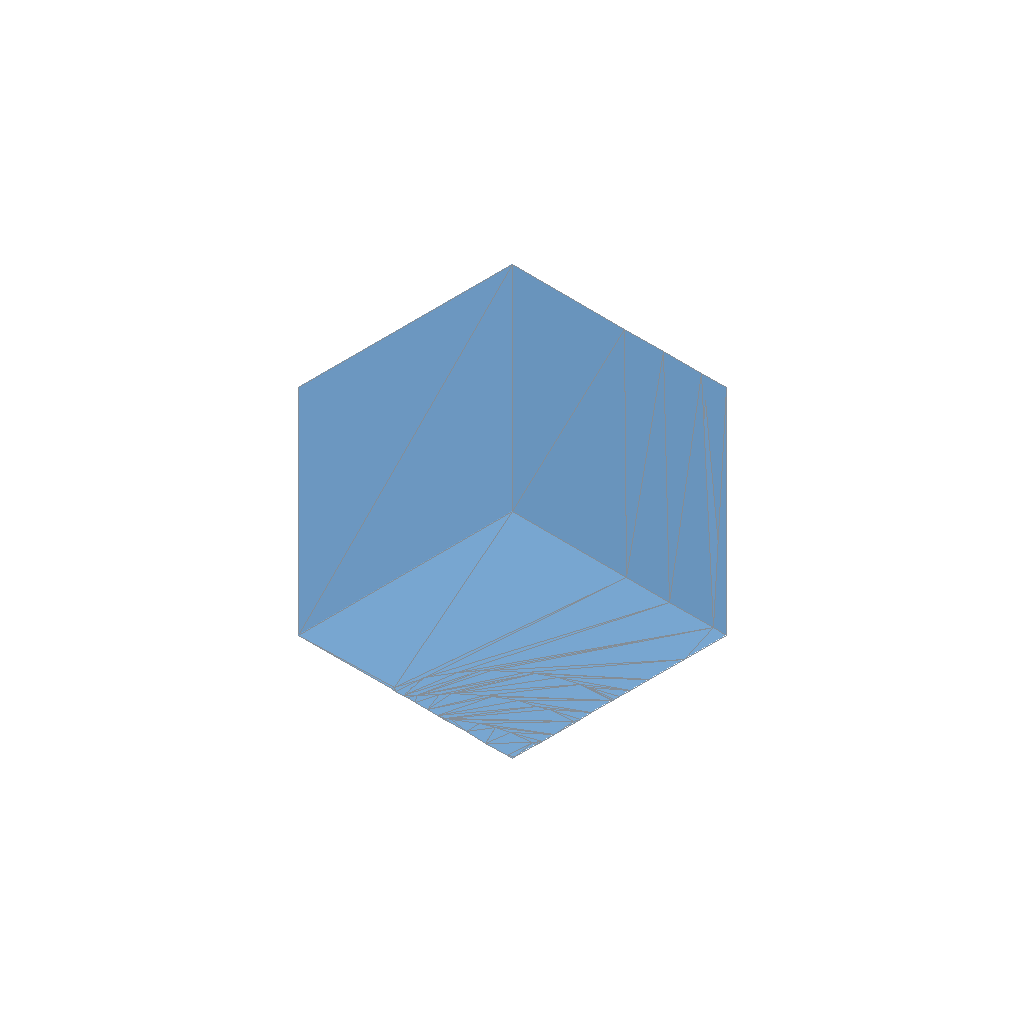
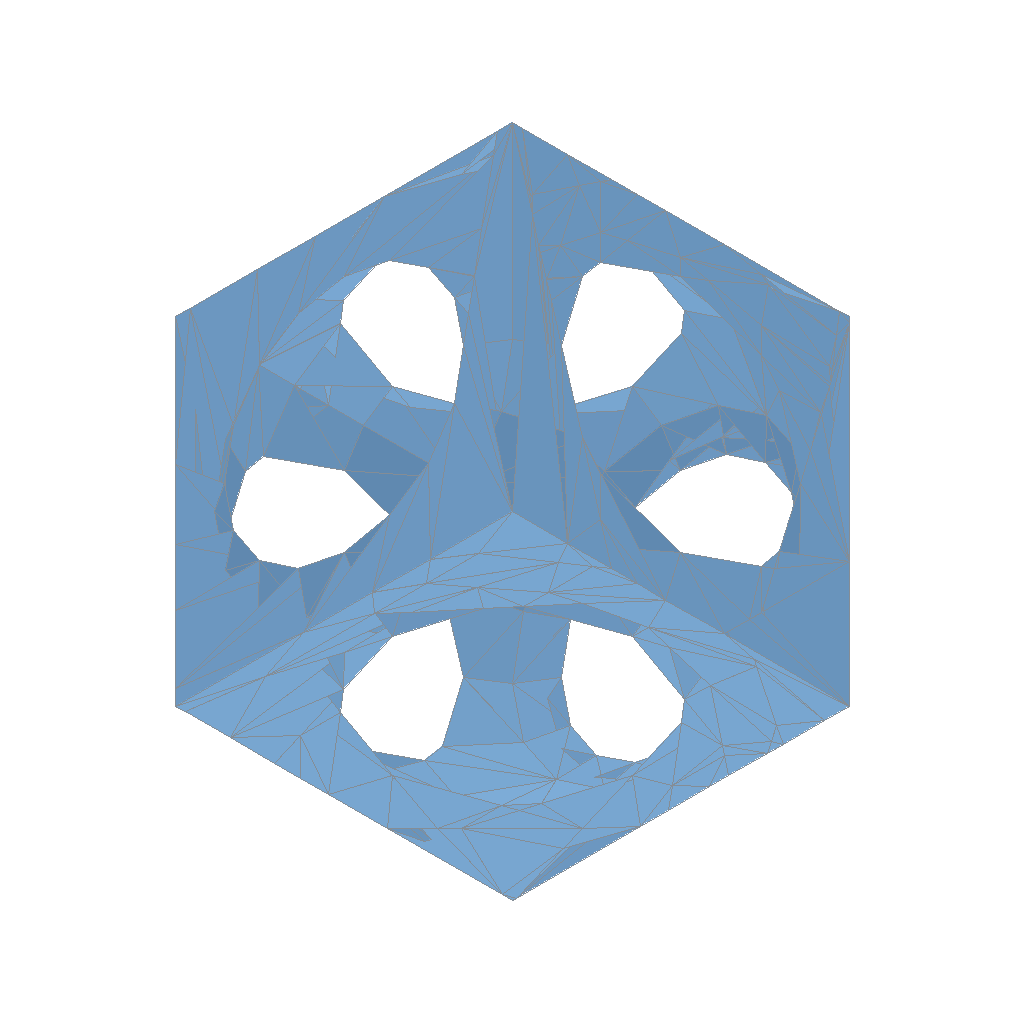
update renders

Changed region(s): [[0.1562, 0.125, 0.8438, 0.875], [0.4062, 0.4375, 0.4375, 0.4688]]

diff --git a/examples/readme_renders.rs b/examples/readme_renders.rs
@@ -250,16 +250,8 @@ fn render_readme_meshes() {
         ]),
     );
 
-    let cube = Mesh::<()>::cube(2.0, None);
     render_mesh("inverse", &Mesh::<()>::sphere(1.0, 32, 16, None).inverse());
-    render_mesh(
-        "cube_sphere_difference",
-        &cube.difference(&Mesh::<()>::sphere(1.25, 32, 16, None)),
-    );
-    render_mesh(
-        "csg",
-        &Mesh::<()>::cube(2.0, None).union(&Mesh::<()>::sphere(1.15, 32, 16, None)),
-    );
+    render_mesh("csg", &cube_minus_translated_sphere());
     render_mesh("convex_hull", &Mesh::<()>::cube(1.2, None).convex_hull());
     render_mesh(
         "minkowski_sum",
@@ -302,6 +294,12 @@ fn render_readme_meshes() {
     );
 
     render_distribution_examples();
+}
+
+fn cube_minus_translated_sphere() -> Mesh<()> {
+    let cube = Mesh::<()>::cube(2.0, None);
+    let sphere = Mesh::<()>::sphere(1.25, 16, 8, None).translate(1.0, 1.0, 1.0);
+    cube.difference(&sphere)
 }
 
 fn render_distribution_examples() {

diff --git a/src/lib.rs b/src/lib.rs
@@ -48,6 +48,11 @@ pub mod csg;
 pub mod triangulated;
 pub mod voxels;
 
+/// Compatibility re-exports for trait imports used in examples.
+pub mod traits {
+    pub use crate::csg::CSG;
+}
+
 #[cfg(feature = "wasm")]
 pub mod wasm;
 

diff --git a/readme.md b/readme.md
@@ -77,8 +77,7 @@ cargo run
 
 This results in a file named `cube_sphere_difference.stl` in the current directory
 and it can be viewed in a STL viewer such as [f3d](https://github.com/f3d-app/f3d)
-with, `f3d cube_sphere_difference.stl`, and should look like this:
-![Cube minus sphere](docs/cube_sphere_difference.png)
+with, `f3d cube_sphere_difference.stl`.
 
 ### Building for WASM
 
